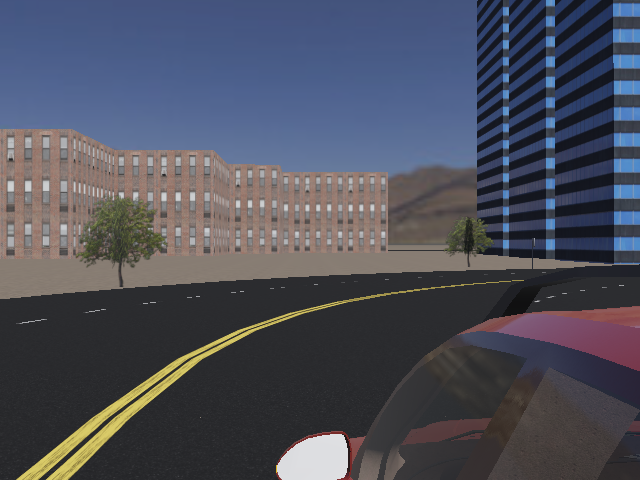
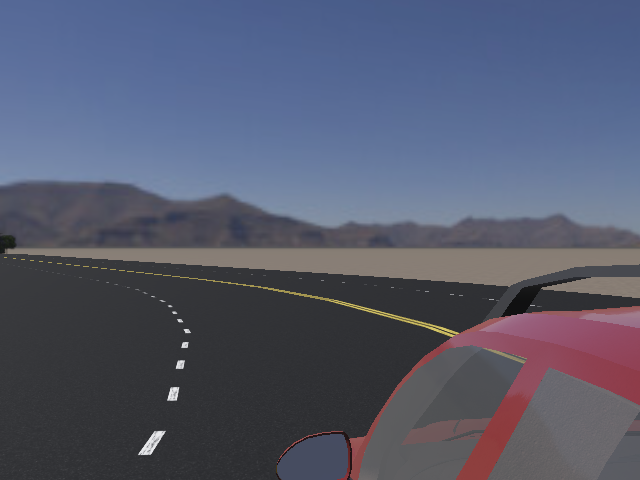
Initial commit for project_ADAS

diff --git a/controllers/my_driver/my_driver.py b/controllers/my_driver/my_driver.py
@@ -34,7 +34,7 @@ LANE_WIDTH_STEER = 0.25
 
 manual_speed = 0.0
 manual_steer = 0.0
-MAX_SPEED = 30.0
+MAX_SPEED = 60.0
 MAX_REVERSE_SPEED = -10.0
 ACCEL_STEP = 0.5
 BRAKE_STEP = 0.5
@@ -115,9 +115,13 @@ count = 0
 while driver.step() != -1:
     count += 1
 
+    pressed_keys = set()
     key = keyboard.getKey()
+    while key != -1:
+        pressed_keys.add(key)
+        key = keyboard.getKey()
 
-    m_pressed = (key == ord('M'))
+    m_pressed = (ord('M') in pressed_keys)
     if m_pressed and not prev_m_pressed:
         mode = MODE_MANUAL if mode == MODE_AUTO else MODE_AUTO
         print(f"Mode switched to: {mode}")
@@ -133,11 +137,11 @@ while driver.step() != -1:
         display.imageDelete(ir_image)
 
     if mode == MODE_MANUAL:
-        up_pressed = (key == keyboard.UP)
-        down_pressed = (key == keyboard.DOWN)
-        left_pressed = (key == keyboard.LEFT)
-        right_pressed = (key == keyboard.RIGHT)
-
+        up_pressed = (keyboard.UP in pressed_keys)
+        down_pressed = (keyboard.DOWN in pressed_keys)
+        left_pressed = (keyboard.LEFT in pressed_keys)
+        right_pressed = (keyboard.RIGHT in pressed_keys)
+       
         if up_pressed:
             manual_speed = min(manual_speed + ACCEL_STEP, MAX_SPEED)
         elif down_pressed:
@@ -157,7 +161,13 @@ while driver.step() != -1:
                 manual_steer = max(manual_steer - STEER_RETURN, 0)
             elif manual_steer < 0:
                 manual_steer = min(manual_steer + STEER_RETURN, 0)
-
+        if manual_speed > 40:
+            speed_limit_factor = 0.4
+        elif manual_speed > 25:
+            speed_limit_factor = 0.65
+        else:
+            speed_limit_factor = 1.0
+        manual_steer = max(min(manual_steer, MAX_STEER * speed_limit_factor), -MAX_STEER * speed_limit_factor)
         driver.setSteeringAngle(manual_steer)
         driver.setCruisingSpeed(manual_speed)
 
